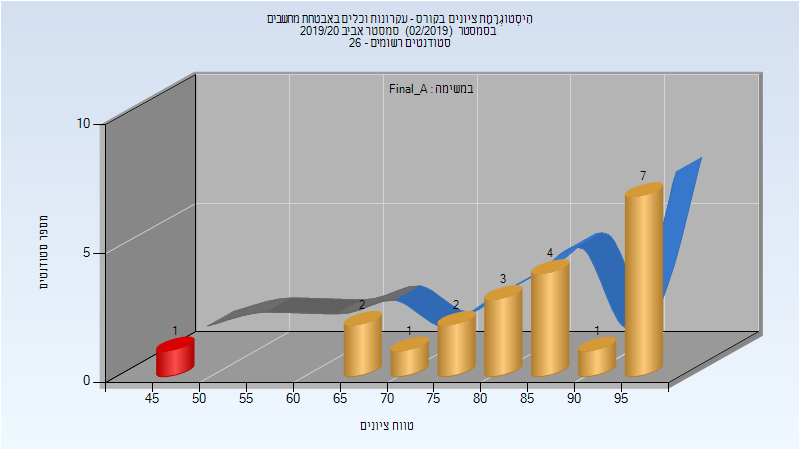
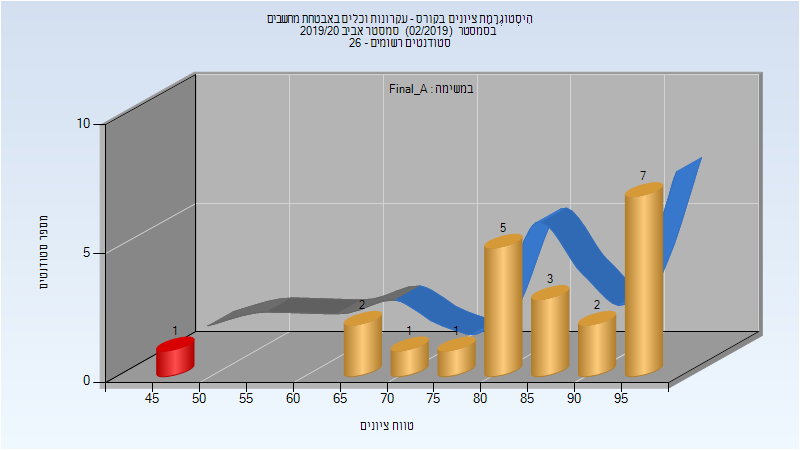
Deploy michael-maltsev/technion-histograms to github.com/michael-maltsev/technion-histograms.git:gh-pages

Changed region(s): [[0.5312, 0.4667, 0.7812, 0.7778], [0.8438, 0.4356, 0.875, 0.56], [0.8125, 0.56, 0.8438, 0.6533]]

diff --git a/104012/index.html b/104012/index.html
@@ -708,6 +708,84 @@
 </tr>
 </tbody>
 </table>
+<h3>מבחן מועד א'</h3>
+<p><img src="201302/Exam_A.png" alt="201302 Exam_A" /></p>
+<table>
+<thead>
+<tr>
+<th>סטודנטים</th>
+<th>עברו/נכשלו</th>
+<th>אחוז עוברים</th>
+<th>ציון מינימלי</th>
+<th>ציון מקסימלי</th>
+<th>ממוצע</th>
+<th>חציון</th>
+</tr>
+</thead>
+<tbody>
+<tr>
+<td>117</td>
+<td>48/69</td>
+<td>41</td>
+<td>0</td>
+<td>100</td>
+<td>48.889</td>
+<td>48</td>
+</tr>
+</tbody>
+</table>
+<h3>סופי מועד א'</h3>
+<p><img src="201302/Final_A.png" alt="201302 Final_A" /></p>
+<table>
+<thead>
+<tr>
+<th>סטודנטים</th>
+<th>עברו/נכשלו</th>
+<th>אחוז עוברים</th>
+<th>ציון מינימלי</th>
+<th>ציון מקסימלי</th>
+<th>ממוצע</th>
+<th>חציון</th>
+</tr>
+</thead>
+<tbody>
+<tr>
+<td>117</td>
+<td>67/50</td>
+<td>57</td>
+<td>5</td>
+<td>100</td>
+<td>59.855</td>
+<td>64</td>
+</tr>
+</tbody>
+</table>
+<h3>סופי מועד ב'</h3>
+<p><img src="201302/Final_B.png" alt="201302 Final_B" /></p>
+<table>
+<thead>
+<tr>
+<th>סטודנטים</th>
+<th>עברו/נכשלו</th>
+<th>אחוז עוברים</th>
+<th>ציון מינימלי</th>
+<th>ציון מקסימלי</th>
+<th>ממוצע</th>
+<th>חציון</th>
+</tr>
+</thead>
+<tbody>
+<tr>
+<td>76</td>
+<td>27/49</td>
+<td>36</td>
+<td>11</td>
+<td>100</td>
+<td>46.842</td>
+<td>41.5</td>
+</tr>
+</tbody>
+</table>
 <h2>חורף 2014-2015</h2>
 <table>
 <thead>

diff --git a/046280/index.html b/046280/index.html
@@ -58,13 +58,13 @@
 </thead>
 <tbody>
 <tr>
-<td>21</td>
-<td>16/5</td>
-<td>76</td>
+<td>22</td>
+<td>17/5</td>
+<td>77</td>
 <td>32</td>
 <td>82.333</td>
-<td>63.635</td>
-<td>63.833</td>
+<td>63.659</td>
+<td>64.583</td>
 </tr>
 </tbody>
 </table>
@@ -84,13 +84,39 @@
 </thead>
 <tbody>
 <tr>
-<td>21</td>
-<td>20/1</td>
+<td>22</td>
+<td>21/1</td>
 <td>95</td>
 <td>49.91</td>
 <td>97.98</td>
-<td>85.158</td>
-<td>86.48</td>
+<td>85.546</td>
+<td>86.6765</td>
+</tr>
+</tbody>
+</table>
+<h3>סופי</h3>
+<p><img src="201902/Finals.png" alt="201902 Finals" /></p>
+<table>
+<thead>
+<tr>
+<th>סטודנטים</th>
+<th>עברו/נכשלו</th>
+<th>אחוז עוברים</th>
+<th>ציון מינימלי</th>
+<th>ציון מקסימלי</th>
+<th>ממוצע</th>
+<th>חציון</th>
+</tr>
+</thead>
+<tbody>
+<tr>
+<td>22</td>
+<td>21/1</td>
+<td>95</td>
+<td>50</td>
+<td>98</td>
+<td>85.545</td>
+<td>86.5</td>
 </tr>
 </tbody>
 </table>

diff --git a/114071/index.html b/114071/index.html
@@ -590,6 +590,20 @@
 </tbody>
 </table>
 <h2>אביב 2014</h2>
+<table>
+<thead>
+<tr>
+<th>איש סגל</th>
+<th>תפקיד</th>
+</tr>
+</thead>
+<tbody>
+<tr>
+<td>בכר אהוד</td>
+<td>מרצה - אחראי מקצוע</td>
+</tr>
+</tbody>
+</table>
 <h3>סופי מועד א'</h3>
 <p><img src="201302/Final_A.png" alt="201302 Final_A" /></p>
 <table>

diff --git a/104012/README.md b/104012/README.md
@@ -222,6 +222,30 @@
 | בלקין אלכס | מתרגל |
 | יעקביאן אבירם | מתרגל |
 
+### מבחן מועד א'
+
+![201302 Exam_A](201302/Exam_A.png)
+
+| סטודנטים | עברו/נכשלו | אחוז עוברים | ציון מינימלי | ציון מקסימלי | ממוצע | חציון |
+| ---- | ---- | ---- | ---- | ---- | ---- | ---- |
+| 117 | 48/69 | 41 | 0 | 100 | 48.889 | 48 |
+
+### סופי מועד א'
+
+![201302 Final_A](201302/Final_A.png)
+
+| סטודנטים | עברו/נכשלו | אחוז עוברים | ציון מינימלי | ציון מקסימלי | ממוצע | חציון |
+| ---- | ---- | ---- | ---- | ---- | ---- | ---- |
+| 117 | 67/50 | 57 | 5 | 100 | 59.855 | 64 |
+
+### סופי מועד ב'
+
+![201302 Final_B](201302/Final_B.png)
+
+| סטודנטים | עברו/נכשלו | אחוז עוברים | ציון מינימלי | ציון מקסימלי | ממוצע | חציון |
+| ---- | ---- | ---- | ---- | ---- | ---- | ---- |
+| 76 | 27/49 | 36 | 11 | 100 | 46.842 | 41.5 |
+
 ## חורף 2014-2015
 
 | איש סגל | תפקיד |

diff --git a/046280/README.md b/046280/README.md
@@ -14,7 +14,7 @@
 
 | סטודנטים | עברו/נכשלו | אחוז עוברים | ציון מינימלי | ציון מקסימלי | ממוצע | חציון |
 | ---- | ---- | ---- | ---- | ---- | ---- | ---- |
-| 21 | 16/5 | 76 | 32 | 82.333 | 63.635 | 63.833 |
+| 22 | 17/5 | 77 | 32 | 82.333 | 63.659 | 64.583 |
 
 ### סופי מועד א'
 
@@ -22,5 +22,13 @@
 
 | סטודנטים | עברו/נכשלו | אחוז עוברים | ציון מינימלי | ציון מקסימלי | ממוצע | חציון |
 | ---- | ---- | ---- | ---- | ---- | ---- | ---- |
-| 21 | 20/1 | 95 | 49.91 | 97.98 | 85.158 | 86.48 |
+| 22 | 21/1 | 95 | 49.91 | 97.98 | 85.546 | 86.6765 |
+
+### סופי
+
+![201902 Finals](201902/Finals.png)
+
+| סטודנטים | עברו/נכשלו | אחוז עוברים | ציון מינימלי | ציון מקסימלי | ממוצע | חציון |
+| ---- | ---- | ---- | ---- | ---- | ---- | ---- |
+| 22 | 21/1 | 95 | 50 | 98 | 85.545 | 86.5 |
 

diff --git a/114071/README.md b/114071/README.md
@@ -188,6 +188,10 @@
 
 ## אביב 2014
 
+| איש סגל | תפקיד |
+| ---- | ---- |
+| בכר אהוד | מרצה - אחראי מקצוע |
+
 ### סופי מועד א'
 
 ![201302 Final_A](201302/Final_A.png)
